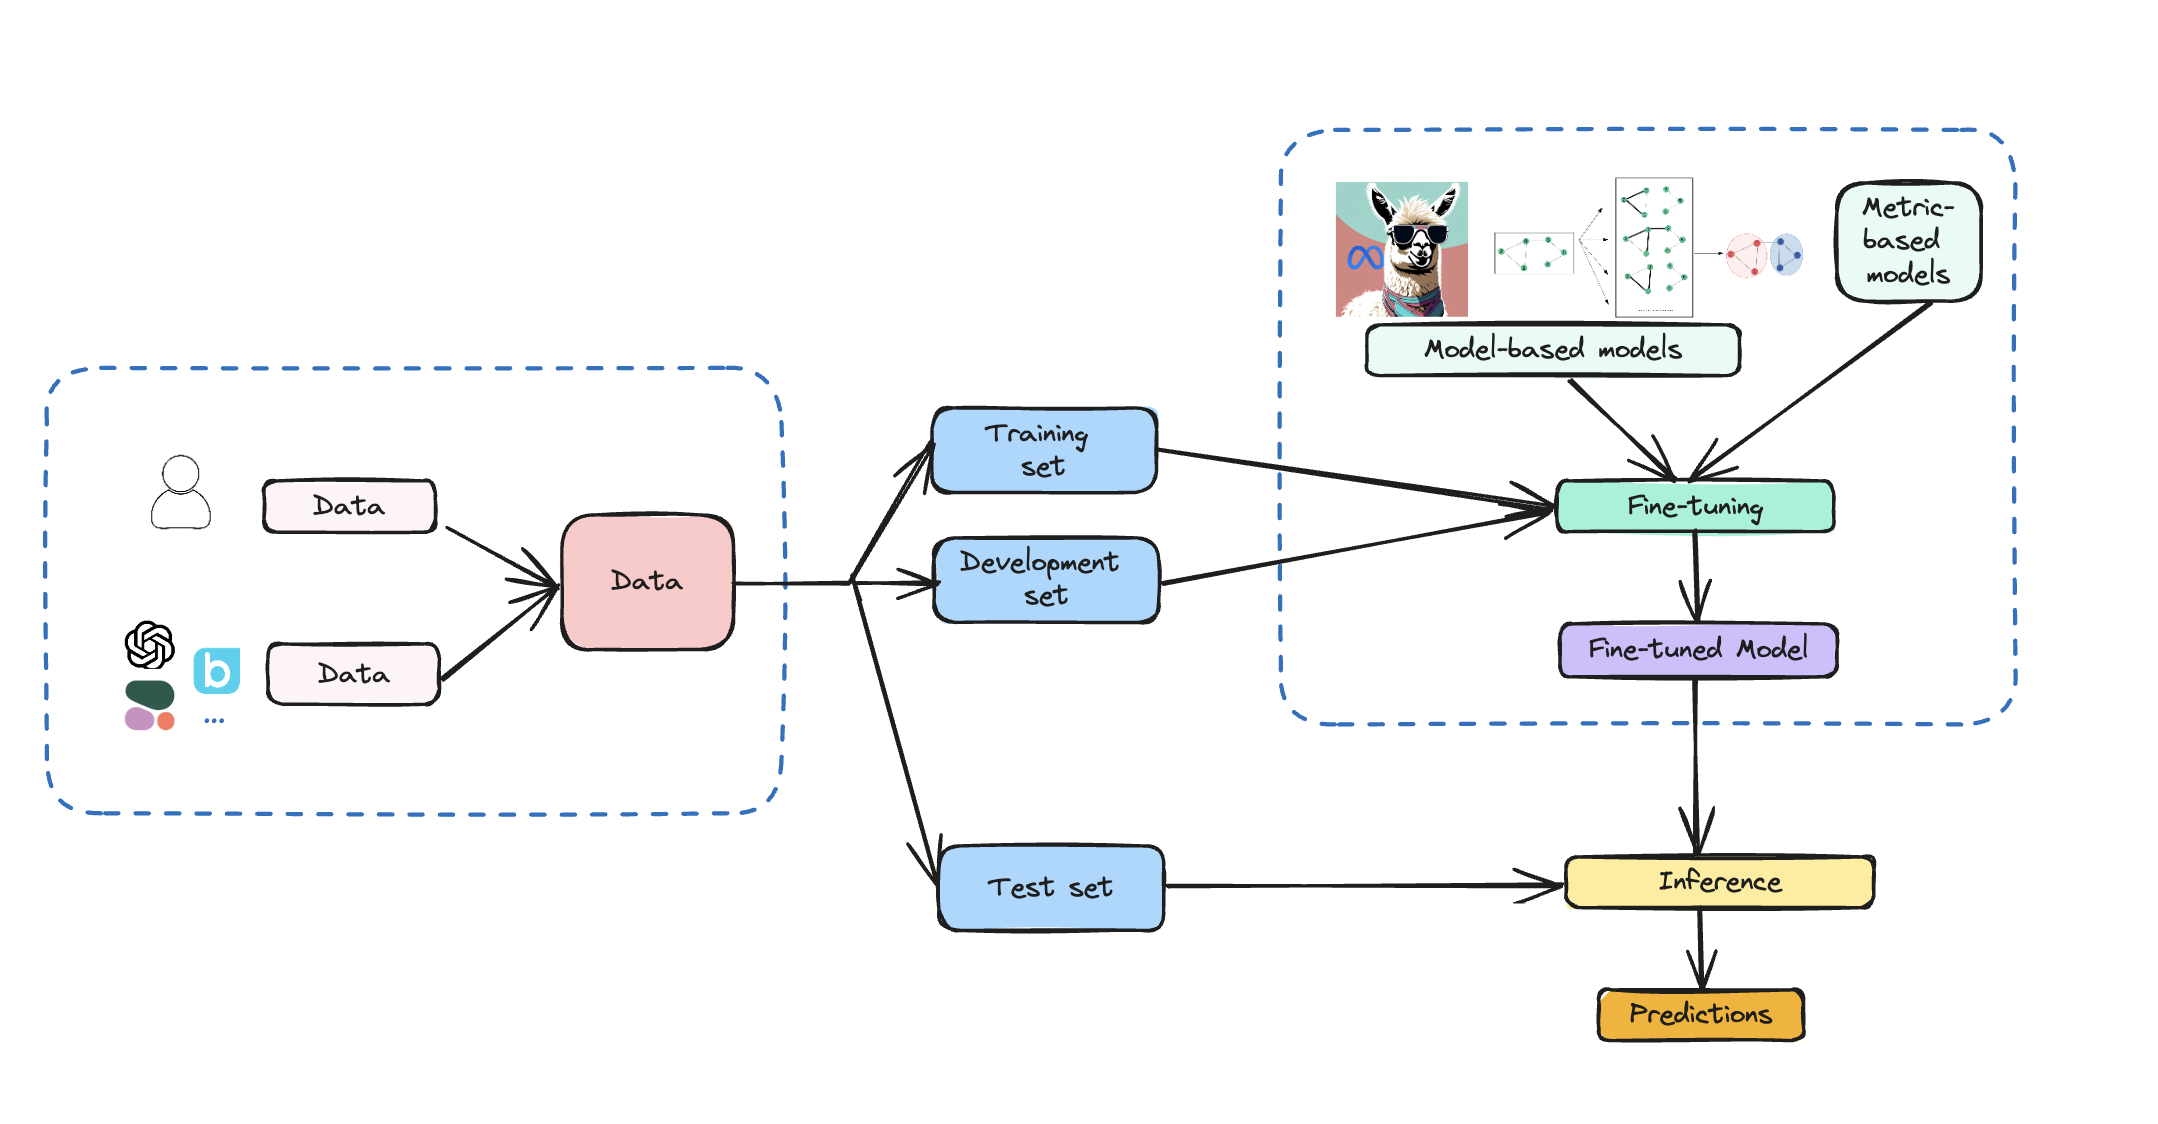
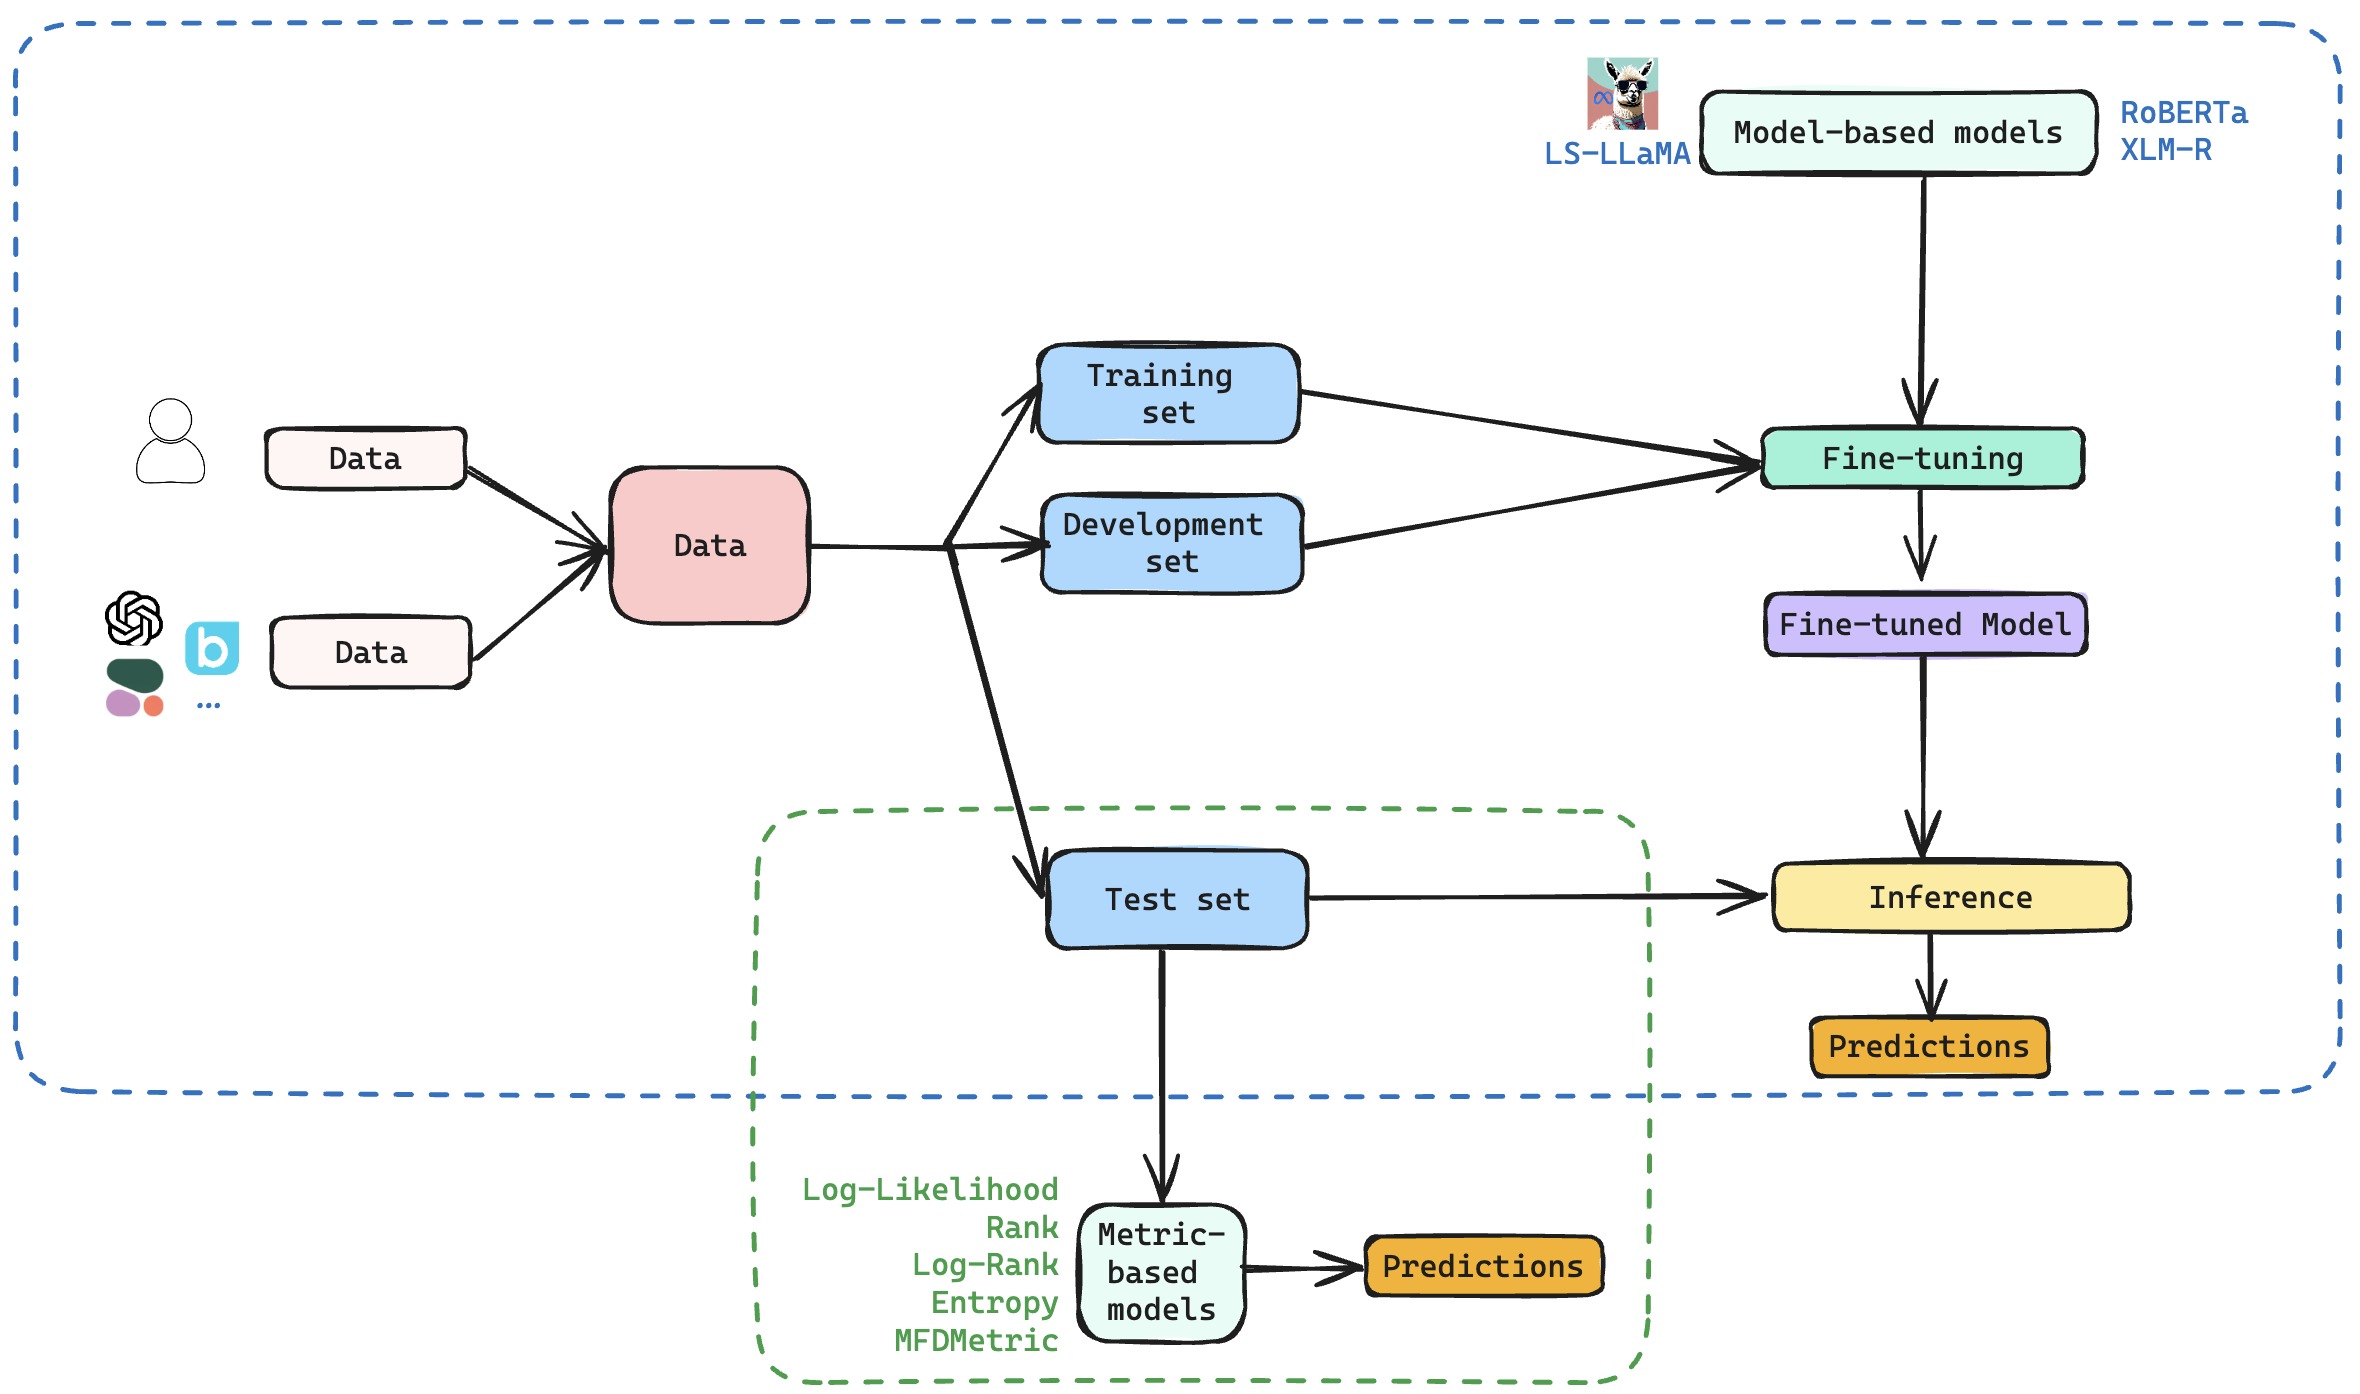
update results and model

diff --git a/README.md b/README.md
@@ -34,14 +34,57 @@ pip install gdown
 ```
 gdown --folder https://drive.google.com/drive/folders/<file_id>
 ```
-Make sure to replace `<file_id>` with the respective file IDs provided above when running the `gdown` command for the desired dataset.
 
+Make sure to replace `<file_id>` with the respective file IDs provided above when running the `gdown` command for the desired dataset.
 
 ## Models
 
 ![](./images/model.png)
 
-(updating scripts to run later)
+### 1. Metric-based methods
+
+Follow the instruction in [MGTBench](https://github.com/xinleihe/MGTBench).
+
+### 2. LM-based methods
+
+Follow the instruction of the baseline models in [subtaskA/baseline](./subtaskA/baseline) and [subtaskB/baseline](./subtaskB/baseline).
+
+Run the following script to train the model:
+
+- Subtask A:
+
+```
+python3 subtaskA/baseline/transformer_baseline.py --train_file_path <path_to_train_file> --test_file_path <path_to_test_file> --prediction_file_path <path_to_save_predictions> --subtask A --model <path_to_model>
+```
+
+- Subtask B:
+
+```
+python3 subtaskB/baseline/transformer_baseline.py --train_file_path <path_to_train_file> --test_file_path <path_to_test_file> --prediction_file_path <path_to_save_predictions> --subtask B --model <path_to_model>
+```
+
+### 3. LLM-based methods
+
+Run the following script to train the model:
+
+```
+chmod +x run.sh
+./run.sh
+```
+
+## Results
+
+### 1. The development set
+
+![](./images/result.png)
+
+### 2. The test set
+
+| Model | Subtask A - mono | Subtask A - mul | Subtask B |
+|-------|-------------------|-----------------|-----------|
+|Baseline| 0.88466 | 0.80887 | 0.74605 |
+|LS_LLaMA| 0.85840 | 0.92867 | 0.83117 |
+|Rankings| 29/139  | 6/69    | 6/77    |
 
 ## Contributors
 
